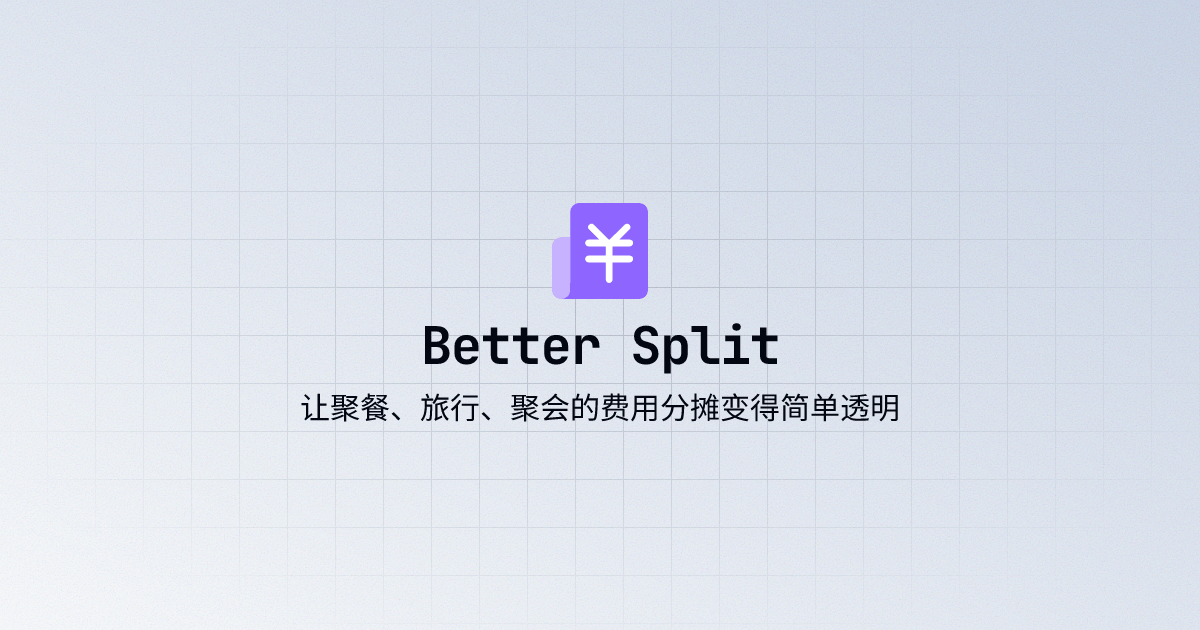
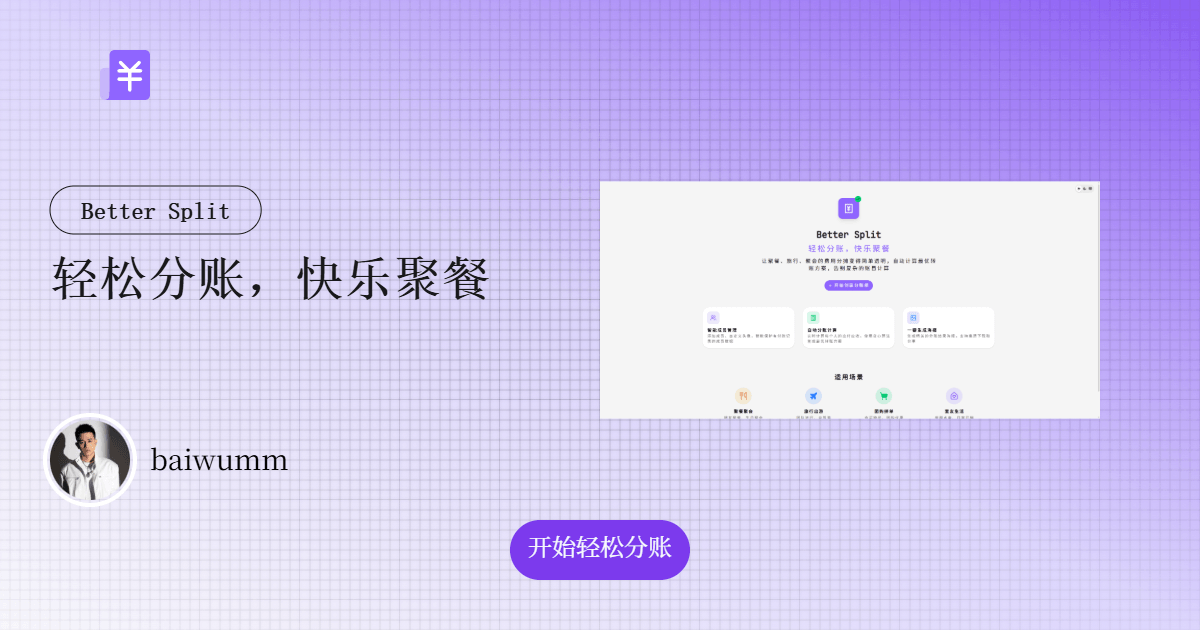
chore: 完善应用配置

diff --git a/src/app/layout.tsx b/src/app/layout.tsx
@@ -13,14 +13,18 @@ import type { Metadata } from 'next'
 export const metadata: Metadata = {
   title: `${process.env.NEXT_PUBLIC_APP_NAME} - ${process.env.NEXT_PUBLIC_APP_TITLE}`,
   description: process.env.NEXT_PUBLIC_APP_DESC,
-  applicationName: process.env.NEXT_PUBLIC_APP_NAME, // 应用名称
-  authors: { name: pkg.author.name, url: pkg.author.url },
-  keywords: process.env.NEXT_PUBLIC_APP_KEYWORDS,
-  icons: {
-    icon: '/favicon.ico',
-    shortcut: '/favicon-16x16.png',
-    apple: '/apple-touch-icon.png',
-  },
+
+  applicationName: process.env.NEXT_PUBLIC_APP_NAME,
+
+  authors: [
+    {
+      name: pkg.author.name,
+      url: pkg.author.url,
+    },
+  ],
+
+  keywords: process.env.NEXT_PUBLIC_APP_KEYWORDS?.split(','),
+
   openGraph: {
     type: 'website',
     locale: 'zh_CN',
@@ -28,7 +32,15 @@ export const metadata: Metadata = {
     title: process.env.NEXT_PUBLIC_APP_NAME,
     description: process.env.NEXT_PUBLIC_APP_DESC,
     siteName: process.env.NEXT_PUBLIC_APP_NAME,
+    images: [
+      {
+        url: `${process.env.NEXT_PUBLIC_APP_URL}/og.png`,
+        width: 1200,
+        height: 630,
+      },
+    ],
   },
+
   twitter: {
     card: 'summary_large_image',
     title: process.env.NEXT_PUBLIC_APP_NAME,

diff --git a/README.md b/README.md
@@ -1,4 +1,4 @@
 ## ✨ Better Split
 让聚餐、旅行、聚会的费用分摊变得简单透明，自动计算最优转账方案，告别复杂的账目计算。
 
-<img src="./public/screen.png" alt="Better Split">
+<img src="./public/light.png" alt="Better Split">
